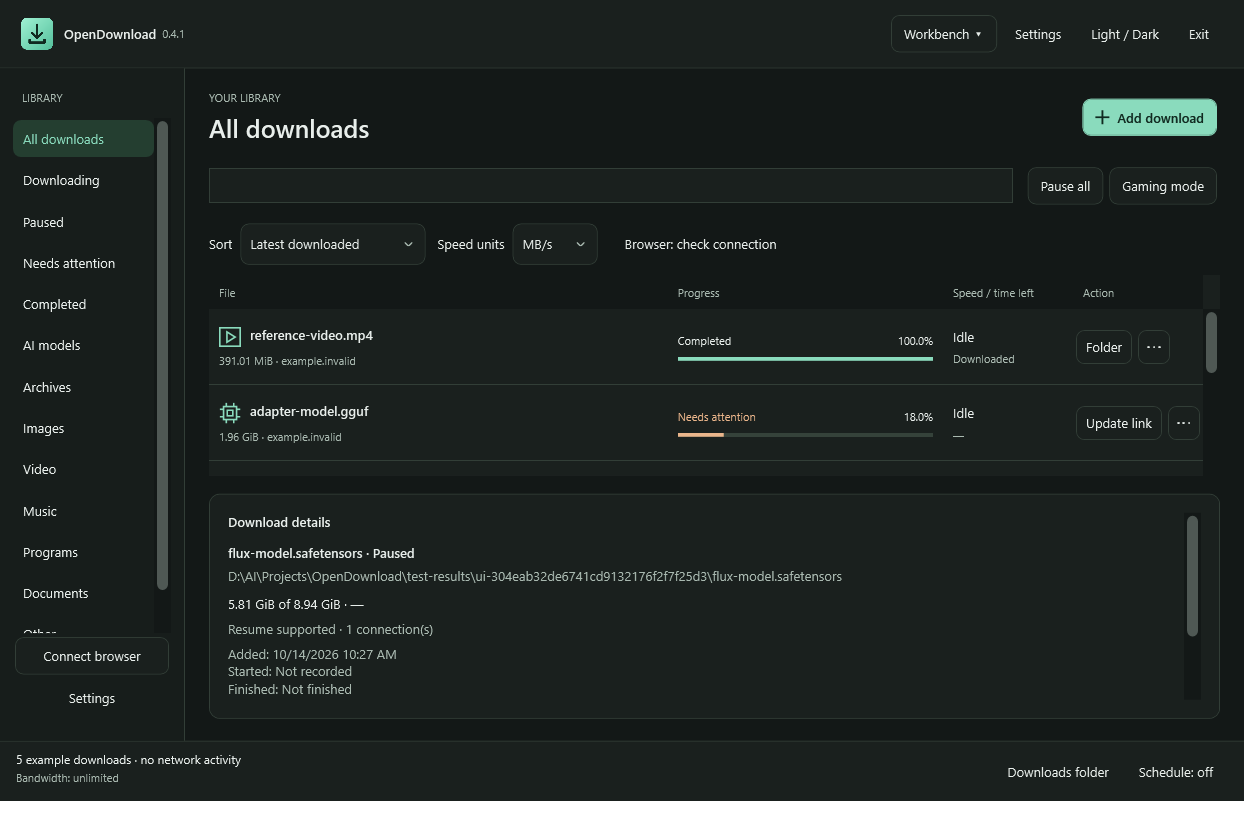
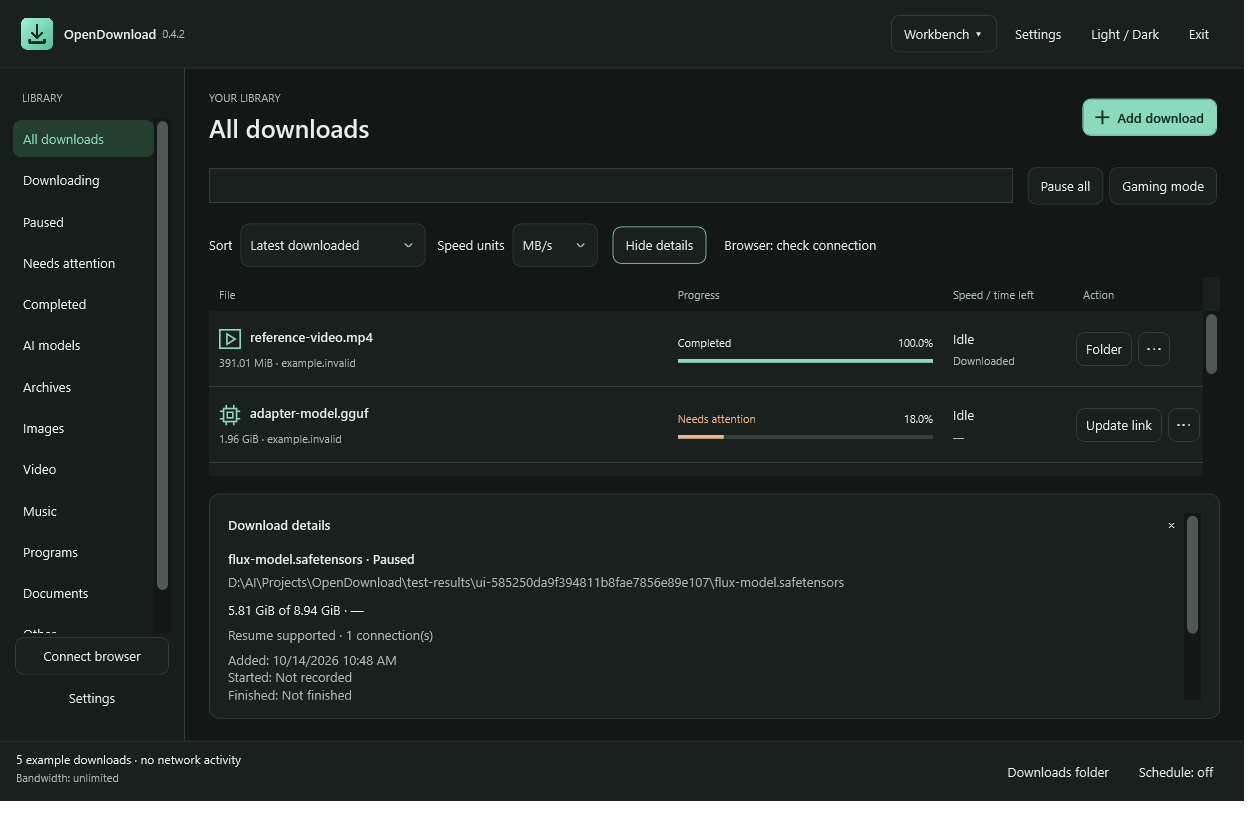
Let Workbench details close and reopen with a remembered preference (v0.4.2)

diff --git a/src/OpenDownload.Desktop/MainWindow.xaml b/src/OpenDownload.Desktop/MainWindow.xaml
@@ -13,7 +13,7 @@
    <DockPanel Grid.Column="1" Margin="24,22">
     <Grid DockPanel.Dock="Top" Margin="0,0,0,20"><Grid.ColumnDefinitions><ColumnDefinition/><ColumnDefinition Width="Auto"/></Grid.ColumnDefinitions><StackPanel><TextBlock Text="YOUR LIBRARY" FontSize="11" Foreground="{DynamicResource Muted}"/><TextBlock x:Name="LibraryTitle" Text="All downloads" FontSize="25" FontWeight="SemiBold" Margin="0,6,0,0"/></StackPanel><Button Grid.Column="1" AutomationProperties.Name="Add download" Click="AddClick" Style="{StaticResource PrimaryButton}" VerticalAlignment="Center" ToolTip="Add one URL or a batch (Ctrl+N)"><StackPanel Orientation="Horizontal"><Path Data="M 7,0 L 7,14 M 0,7 L 14,7" Stroke="{DynamicResource AccentInk}" StrokeThickness="1.8" Width="14" Height="14" Margin="0,0,8,0" VerticalAlignment="Center"/><TextBlock Text="Add download"/></StackPanel></Button></Grid>
     <Grid DockPanel.Dock="Top" Margin="0,0,0,16"><Grid.ColumnDefinitions><ColumnDefinition/><ColumnDefinition Width="Auto"/></Grid.ColumnDefinitions><TextBox x:Name="SearchBox" TextChanged="SearchChanged" Margin="0,0,12,0" VerticalAlignment="Center" ToolTip="Search downloads" AutomationProperties.Name="Search downloads"/><StackPanel Grid.Column="1" Orientation="Horizontal"><Button Content="Pause all" Click="PauseAllClick"/><Button x:Name="GamingButton" Content="Gaming mode" Click="GamingClick"/></StackPanel></Grid>
-    <WrapPanel DockPanel.Dock="Top" Margin="0,0,0,10"><TextBlock Text="Sort" VerticalAlignment="Center" Margin="0,0,8,0"/><ComboBox x:Name="SortPicker" Width="185" SelectionChanged="SortChanged" Margin="0,0,12,0" AutomationProperties.Name="Sort downloads"/><TextBlock Text="Speed units" VerticalAlignment="Center" Margin="0,0,8,0"/><ComboBox x:Name="UnitPicker" Width="85" SelectionChanged="UnitChanged" Margin="0,0,12,0" AutomationProperties.Name="Speed units"/><Button x:Name="LiveBrowserStatus" Content="Browser: check connection" Click="BrowserClick" Style="{StaticResource QuietButton}"/></WrapPanel>
+    <WrapPanel DockPanel.Dock="Top" Margin="0,0,0,10"><TextBlock Text="Sort" VerticalAlignment="Center" Margin="0,0,8,0"/><ComboBox x:Name="SortPicker" Width="185" SelectionChanged="SortChanged" Margin="0,0,12,0" AutomationProperties.Name="Sort downloads"/><TextBlock Text="Speed units" VerticalAlignment="Center" Margin="0,0,8,0"/><ComboBox x:Name="UnitPicker" Width="85" SelectionChanged="UnitChanged" Margin="0,0,12,0" AutomationProperties.Name="Speed units"/><Button x:Name="DetailsToggle" Content="Hide details" Click="ToggleDetailsClick" Visibility="Collapsed" ToolTip="Show or hide the Workbench download details panel"/><Button x:Name="LiveBrowserStatus" Content="Browser: check connection" Click="BrowserClick" Style="{StaticResource QuietButton}"/></WrapPanel>
     <Border x:Name="SpeedOverview" DockPanel.Dock="Top" Background="{DynamicResource Surface}" CornerRadius="8" Padding="12" Margin="0,0,0,12"><Grid><Grid.ColumnDefinitions><ColumnDefinition Width="270"/><ColumnDefinition/></Grid.ColumnDefinitions><StackPanel><TextBlock x:Name="SpeedReadout" FontSize="12" Text="No active downloads"/><TextBlock x:Name="SpeedCap" FontSize="11" Foreground="{DynamicResource Muted}" Margin="0,5,0,0"/></StackPanel><Canvas Grid.Column="1" x:Name="SpeedChart" Height="40" ClipToBounds="True" ToolTip="Transfer speed over the latest 60 samples, roughly one minute"><Polyline x:Name="SpeedLine" Stroke="{DynamicResource Accent}" StrokeThickness="2"/></Canvas></Grid></Border>
     <WrapPanel x:Name="FocusFilters" DockPanel.Dock="Top" Visibility="Collapsed" Margin="0,0,0,14"><Button Content="All downloads" Click="FocusFilterClick"/><Button Content="Downloading" Click="FocusFilterClick"/><Button Content="Paused" Click="FocusFilterClick"/><Button Content="Needs attention" Click="FocusFilterClick"/><Button Content="Completed" Click="FocusFilterClick"/><Button Content="Images" Click="FocusFilterClick"/></WrapPanel>
     <StackPanel x:Name="BulkActions" DockPanel.Dock="Top" Orientation="Horizontal" Visibility="Collapsed" Margin="0,0,0,12"><TextBlock x:Name="SelectionCount" VerticalAlignment="Center" Margin="0,0,12,0"/><Button Content="Resume selected" Click="ResumeClick"/><Button Content="Pause selected" Click="PauseClick"/><Button Content="More…" Click="BulkMoreClick"/></StackPanel>
@@ -26,7 +26,7 @@
       <ListBox x:Name="FocusDownloads" Visibility="Collapsed" ItemTemplate="{StaticResource FocusRow}" SelectionChanged="FocusSelectionChanged" SelectionMode="Extended" ScrollViewer.HorizontalScrollBarVisibility="Disabled" VirtualizingPanel.IsVirtualizing="True" VirtualizingPanel.VirtualizationMode="Recycling"><ListBox.ItemContainerStyle><Style TargetType="ListBoxItem"><Setter Property="HorizontalContentAlignment" Value="Stretch"/><Setter Property="Padding" Value="0"/><Setter Property="Template"><Setter.Value><ControlTemplate TargetType="ListBoxItem"><Border x:Name="Frame" BorderThickness="1" BorderBrush="Transparent" CornerRadius="10"><ContentPresenter/></Border><ControlTemplate.Triggers><Trigger Property="IsSelected" Value="True"><Setter TargetName="Frame" Property="BorderBrush" Value="{DynamicResource Accent}"/></Trigger></ControlTemplate.Triggers></ControlTemplate></Setter.Value></Setter></Style></ListBox.ItemContainerStyle></ListBox>
       <Border x:Name="EmptyState" Background="{DynamicResource Canvas}" Visibility="Collapsed" IsHitTestVisible="False"><StackPanel VerticalAlignment="Center" HorizontalAlignment="Center"><TextBlock Text="Your downloads start here" FontSize="21" TextAlignment="Center"/><TextBlock Text="Add a URL or send a link from your browser." Foreground="{DynamicResource Muted}" Margin="0,10,0,0"/></StackPanel></Border>
      </Grid>
-     <Border x:Name="DetailsPanel" Grid.Row="1" Margin="0,18,0,0" Padding="18" Background="{DynamicResource Surface}" BorderBrush="{DynamicResource Line}" BorderThickness="1" CornerRadius="10"><ScrollViewer VerticalScrollBarVisibility="Auto"><StackPanel><TextBlock Text="Download details" FontWeight="SemiBold"/><TextBlock x:Name="SelectionTitle" Text="Select a download" FontWeight="SemiBold" Margin="0,14,0,0" TextWrapping="Wrap"/><TextBlock x:Name="SelectionDetail" Foreground="{DynamicResource Muted}" TextWrapping="Wrap" Margin="0,6,0,0"/><Image x:Name="SelectionPreview" Height="140" Stretch="Uniform" Margin="0,12,0,0" Visibility="Collapsed"/><TextBlock x:Name="SelectionProgress" Margin="0,10,0,0"/><TextBlock x:Name="SelectionResume" Foreground="{DynamicResource Muted}" Margin="0,8,0,0" TextWrapping="Wrap"/><TextBlock x:Name="SelectionTiming" TextWrapping="Wrap" Margin="0,8,0,0" Foreground="{DynamicResource Muted}"/><TextBlock x:Name="SelectionHash" TextWrapping="Wrap" FontFamily="Consolas" FontSize="11" Margin="0,8,0,0"/><WrapPanel Margin="0,12,0,0"><Button Content="Open file" Click="OpenFileClick" Style="{StaticResource QuietButton}"/><Button Content="Open folder" Click="FolderClick" Style="{StaticResource QuietButton}"/><Button Content="Update link" Click="ReplaceClick" Style="{StaticResource QuietButton}"/><Button Content="Advanced details" Click="DetailsClick" Style="{StaticResource QuietButton}"/></WrapPanel></StackPanel></ScrollViewer></Border>
+     <Border x:Name="DetailsPanel" Grid.Row="1" Margin="0,18,0,0" Padding="18" Background="{DynamicResource Surface}" BorderBrush="{DynamicResource Line}" BorderThickness="1" CornerRadius="10"><ScrollViewer VerticalScrollBarVisibility="Auto"><StackPanel><DockPanel><Button x:Name="CloseDetailsButton" DockPanel.Dock="Right" Content="&#x00D7;" Click="CloseDetailsClick" AutomationProperties.Name="Close download details" ToolTip="Close download details" Padding="8,3" Margin="0" Style="{StaticResource QuietButton}"/><TextBlock Text="Download details" FontWeight="SemiBold" VerticalAlignment="Center"/></DockPanel><TextBlock x:Name="SelectionTitle" Text="Select a download" FontWeight="SemiBold" Margin="0,14,0,0" TextWrapping="Wrap"/><TextBlock x:Name="SelectionDetail" Foreground="{DynamicResource Muted}" TextWrapping="Wrap" Margin="0,6,0,0"/><Image x:Name="SelectionPreview" Height="140" Stretch="Uniform" Margin="0,12,0,0" Visibility="Collapsed"/><TextBlock x:Name="SelectionProgress" Margin="0,10,0,0"/><TextBlock x:Name="SelectionResume" Foreground="{DynamicResource Muted}" Margin="0,8,0,0" TextWrapping="Wrap"/><TextBlock x:Name="SelectionTiming" TextWrapping="Wrap" Margin="0,8,0,0" Foreground="{DynamicResource Muted}"/><TextBlock x:Name="SelectionHash" TextWrapping="Wrap" FontFamily="Consolas" FontSize="11" Margin="0,8,0,0"/><WrapPanel Margin="0,12,0,0"><Button Content="Open file" Click="OpenFileClick" Style="{StaticResource QuietButton}"/><Button Content="Open folder" Click="FolderClick" Style="{StaticResource QuietButton}"/><Button Content="Update link" Click="ReplaceClick" Style="{StaticResource QuietButton}"/><Button Content="Advanced details" Click="DetailsClick" Style="{StaticResource QuietButton}"/></WrapPanel></StackPanel></ScrollViewer></Border>
     </Grid>
    </DockPanel>
   </Grid>

diff --git a/src/OpenDownload.Desktop/MainWindow.UiTests.cs b/src/OpenDownload.Desktop/MainWindow.UiTests.cs
@@ -28,6 +28,14 @@ public partial class MainWindow
             Theme.ApplyTitleBar(this); Check(Theme.TitleBarMatches(this),"Windows accepts the themed title bar: " + Theme.LastTitleBarResult.ToString("X8"));
             Check(BrowserIntegration.BrowserPage("Chrome",false)=="chrome://extensions/" && BrowserIntegration.BrowserPage("Edge",false)=="edge://extensions/","Browser navigation uses the correct extensions page");
             Check(((System.Windows.Media.SolidColorBrush)SelectionTitle.Foreground).Color == ((System.Windows.Media.SolidColorBrush)FindResource("Ink")).Color, "Dark theme details text matches readable foreground");
+            double expandedListHeight=ListPanel.ActualHeight;
+            CloseDetailsClick(this,new()); await Dispatcher.InvokeAsync(UpdateLayout,DispatcherPriority.ApplicationIdle);
+            Check(DetailsPanel.Visibility==Visibility.Collapsed && ListPanel.ActualHeight>expandedListHeight+100 && DetailsToggle.Content.ToString()=="Show details","Closing Workbench details gives its space to the download list");
+            SelectOne(rows[1]); Check(DetailsPanel.Visibility==Visibility.Collapsed,"Selecting another download leaves closed details hidden");
+            Check(!store.LoadSettings().WorkbenchDetailsVisible,"Workbench details visibility persists across settings reload");
+            settings.Layout="Focus"; ApplyLayout(); Check(DetailsPanel.Visibility==Visibility.Visible && DetailsToggle.Visibility==Visibility.Collapsed && CloseDetailsButton.Visibility==Visibility.Collapsed,"Focus details remain visible independently of Workbench preference");
+            settings.Layout="Workbench"; ApplyLayout(); ToggleDetailsClick(this,new()); SelectOne(rows[0]); await Dispatcher.InvokeAsync(UpdateLayout,DispatcherPriority.ApplicationIdle);
+            Check(DetailsPanel.Visibility==Visibility.Visible && store.LoadSettings().WorkbenchDetailsVisible,"Show details restores the panel and saves the preference");
             Capture("workbench.png");
             settings.Layout = "Focus"; ApplyLayout(); SelectOne(rows[0]); await Dispatcher.InvokeAsync(UpdateLayout, DispatcherPriority.ApplicationIdle);
             Check(FocusDownloads.Visibility == Visibility.Visible && LibrarySidebar.Visibility == Visibility.Collapsed && Grid.GetColumn(DetailsPanel) == 1, "Focus uses transfer cards and side details");

diff --git a/src/OpenDownload.Desktop/Dialogs.cs b/src/OpenDownload.Desktop/Dialogs.cs
@@ -150,7 +150,7 @@ public sealed class OptionsDialog : Window
                 if(editedRules.Values.Any(value=>!Path.IsPathFullyQualified(value))) throw new ArgumentException("Use an absolute path for every remembered folder.");
                 Result = new Settings { DownloadDirectory = Path.GetFullPath(directory.Text), Connections = c, ConcurrentDownloads = n, SpeedLimitKiB = s, ScheduleEnabled = schedule.IsChecked == true,
                     ScheduleStartMinute = (int)begin.TotalMinutes, ScheduleEndMinute = (int)end.TotalMinutes, MinimizeToTray = tray.IsChecked == true,
-                    Layout = current.Layout, LayoutDefaultVersion=current.LayoutDefaultVersion,TypeFolders=editedRules.ToDictionary(pair=>pair.Key,pair=>Path.GetFullPath(pair.Value)),ShowProgressWindow=progressPopup.IsChecked==true,SortMode=current.SortMode,SpeedUnit=current.SpeedUnit,CompletionNotifications=completionAlerts.IsChecked==true, PreviousSpeedLimitKiB=current.PreviousSpeedLimitKiB, LightTheme = current.LightTheme, CompactRows = compact.IsChecked == true, GamingLimitKiB = g, BrowserCheckedAt = current.BrowserCheckedAt };
+                    Layout = current.Layout, WorkbenchDetailsVisible=current.WorkbenchDetailsVisible, LayoutDefaultVersion=current.LayoutDefaultVersion,TypeFolders=editedRules.ToDictionary(pair=>pair.Key,pair=>Path.GetFullPath(pair.Value)),ShowProgressWindow=progressPopup.IsChecked==true,SortMode=current.SortMode,SpeedUnit=current.SpeedUnit,CompletionNotifications=completionAlerts.IsChecked==true, PreviousSpeedLimitKiB=current.PreviousSpeedLimitKiB, LightTheme = current.LightTheme, CompactRows = compact.IsChecked == true, GamingLimitKiB = g, BrowserCheckedAt = current.BrowserCheckedAt };
                 DialogResult = true;
             }
             catch (Exception ex) when (ex is ArgumentException or IOException or UnauthorizedAccessException or NotSupportedException) { MessageBox.Show(this, ex.Message, "Check options"); }

diff --git a/src/OpenDownload.Desktop/MainWindow.Views.cs b/src/OpenDownload.Desktop/MainWindow.Views.cs
@@ -16,6 +16,10 @@ public partial class MainWindow
         FocusFilters.Visibility = focus ? Visibility.Visible : Visibility.Collapsed;
         Downloads.Visibility = focus ? Visibility.Collapsed : Visibility.Visible;
         FocusDownloads.Visibility = focus ? Visibility.Visible : Visibility.Collapsed;
+        DetailsPanel.Visibility = focus || settings.WorkbenchDetailsVisible ? Visibility.Visible : Visibility.Collapsed;
+        DetailsToggle.Visibility = focus ? Visibility.Collapsed : Visibility.Visible;
+        CloseDetailsButton.Visibility = focus ? Visibility.Collapsed : Visibility.Visible;
+        DetailsToggle.Content = settings.WorkbenchDetailsVisible ? "Hide details" : "Show details";
         DetailsColumn.Width = new GridLength(focus ? 280 : 0);
         Grid.SetColumn(DetailsPanel, focus ? 1 : 0); Grid.SetRow(DetailsPanel, focus ? 0 : 1);
         Grid.SetRowSpan(DetailsPanel, focus ? 2 : 1);
@@ -23,6 +27,16 @@ public partial class MainWindow
         DetailsPanel.MaxHeight = focus ? double.PositiveInfinity : 225;
         Downloads.RowHeight = settings.CompactRows ? 58 : 76;
         UpdateSelection(); UpdateEmptyState();
+    }
+    private void ToggleDetailsClick(object sender, RoutedEventArgs e)
+    {
+        settings.WorkbenchDetailsVisible = !settings.WorkbenchDetailsVisible;
+        ApplyLayout(); Save();
+        if (!settings.WorkbenchDetailsVisible) DetailsToggle.Focus();
+    }
+    private void CloseDetailsClick(object sender, RoutedEventArgs e)
+    {
+        settings.WorkbenchDetailsVisible = false; ApplyLayout(); Save(); DetailsToggle.Focus();
     }
     private void ChooseLayout()
     {

diff --git a/src/OpenDownload.Core/Models.cs b/src/OpenDownload.Core/Models.cs
@@ -65,6 +65,7 @@ public sealed class Settings
     public string SpeedUnit { get; set; } = "MB/s";
     public bool CompletionNotifications { get; set; } = true;
     public bool LightTheme { get; set; }
+    public bool WorkbenchDetailsVisible { get; set; } = true;
     public bool CompactRows { get; set; }
     public int GamingLimitKiB { get; set; } = 5120;
     public int? PreviousSpeedLimitKiB { get; set; }

diff --git a/README.md b/README.md
@@ -1,20 +1,20 @@
 # OpenDownload
 
-[![Download Windows installer](https://img.shields.io/badge/Download_Windows_installer-.exe-58C9A8?style=for-the-badge&logo=windows&logoColor=white)](https://github.com/Renz1998/OpenDownload/releases/download/v0.4.1/OpenDownload-0.4.1-Setup.exe)
+[![Download Windows installer](https://img.shields.io/badge/Download_Windows_installer-.exe-58C9A8?style=for-the-badge&logo=windows&logoColor=white)](https://github.com/Renz1998/OpenDownload/releases/download/v0.4.2/OpenDownload-0.4.2-Setup.exe)
 
-**[Download OpenDownload 0.4.1 for Windows (.exe)](https://github.com/Renz1998/OpenDownload/releases/download/v0.4.1/OpenDownload-0.4.1-Setup.exe)**
+**[Download OpenDownload 0.4.2 for Windows (.exe)](https://github.com/Renz1998/OpenDownload/releases/download/v0.4.2/OpenDownload-0.4.2-Setup.exe)**
 
 Windows 11, 64-bit. Download and run the installer; the .NET runtime is included.
 
-[Portable ZIP](https://github.com/Renz1998/OpenDownload/releases/download/v0.4.1/OpenDownload-0.4.1-win-x64.zip) | [Release notes and checksums](https://github.com/Renz1998/OpenDownload/releases/tag/v0.4.1) | [Browser extension setup guide](docs/browser-setup.html)
+[Portable ZIP](https://github.com/Renz1998/OpenDownload/releases/download/v0.4.2/OpenDownload-0.4.2-win-x64.zip) | [Release notes and checksums](https://github.com/Renz1998/OpenDownload/releases/tag/v0.4.2) | [Browser extension setup guide](docs/browser-setup.html)
 
 A free, open-source download manager for Windows 11. A familiar toolbar, category sidebar and download table, with an independent transfer engine and Chrome/Edge extension. No trial, account, ads or subscription.
 
-**Version 0.4.1 is a preview release, not full IDM parity.** OpenDownload has its own branding, source code and browser helper. It does not replace IDM's helper, reset its trial, or redistribute its extension.
+**Version 0.4.2 is a preview release, not full IDM parity.** OpenDownload has its own branding, source code and browser helper. It does not replace IDM's helper, reset its trial, or redistribute its extension.
 
 ## See the app
 
-Actual screenshots of OpenDownload 0.4.1 with example downloads. Switch between these layouts at any time using the menu at the top of the app.
+Actual screenshots of OpenDownload 0.4.2 with example downloads. Switch between these layouts at any time using the menu at the top of the app.
 
 ### Focus (default)
 
@@ -24,7 +24,7 @@ A simple card view with progress, quick actions and download details.
 
 ### Workbench
 
-A download table with a category sidebar for managing a larger library.
+A download table with a category sidebar for managing a larger library. Close the download details panel with its × button to give the list more space, and use **Show details** to bring it back. Your choice is remembered.
 
 ![OpenDownload Workbench mode: category sidebar, download table and details panel](docs/images/workbench.png)
 
@@ -47,7 +47,7 @@ A download table with a category sidebar for managing a larger library.
 
 ## Run
 
-Run `OpenDownload-0.4.1-Setup.exe` for per-user installation, shortcuts and automatic browser-helper registration. Close OpenDownload using Exit before upgrading. The installer preserves preferences, downloads, unrelated files and the previous program folder as a recovery backup. Uninstall through Windows Settings → Apps; downloaded files, settings/history and the cached installer are kept. Alternatively extract the portable ZIP and launch `OpenDownload.Desktop.exe`. The .NET runtime is included.
+Run `OpenDownload-0.4.2-Setup.exe` for per-user installation, shortcuts and automatic browser-helper registration. Close OpenDownload using Exit before upgrading. The installer preserves preferences, downloads, unrelated files and the previous program folder as a recovery backup. Uninstall through Windows Settings → Apps; downloaded files, settings/history and the cached installer are kept. Alternatively extract the portable ZIP and launch `OpenDownload.Desktop.exe`. The .NET runtime is included.
 
 New installations save files to your Windows **Downloads** folder (`C:\Users\<user>\Downloads` on a typical setup). Existing custom download folders are preserved. Change the location, speed limit, connection count and schedule in **Settings**. Your settings and encrypted history live at `%LOCALAPPDATA%\OpenDownload`. Set `OPENDOWNLOAD_DATA` before launch to use another local data folder, or put its absolute path in `data-path.txt` beside the app. The environment variable takes priority. Keep that machine-specific file out of shared release packages.
 
